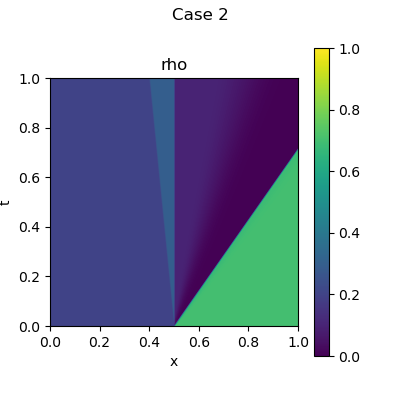
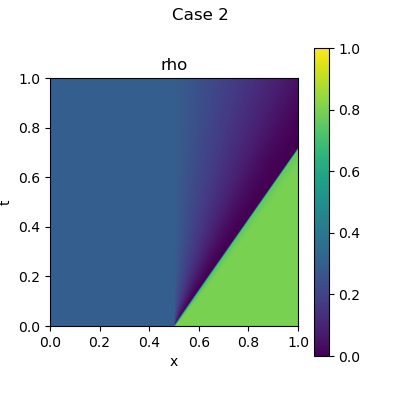
-

diff --git a/GodunovForArz.py b/GodunovForArz.py
@@ -215,7 +215,7 @@ def testRiemannCases():
     _ = main(startwerte = createRiemannProblem(rho_links = 0.6, v_links   = 0.6, rho_rechts =  0.8, v_rechts   = 0.7), title = "Case 1.1")
     _ = main(startwerte = createRiemannProblem(rho_links = 0.8, v_links   = 0.7, rho_rechts =  0.6, v_rechts   = 0.6), title = "Case 1.2")
     _ = main(startwerte = createRiemannProblem(rho_links = 0.7, v_links   = 0.7, rho_rechts =  0.2, v_rechts   = 0.2), title = "Case 3")
-    _ = main(startwerte = createRiemannProblem(rho_links = 0.2, v_links   = 0.2, rho_rechts =  0.7, v_rechts   = 0.7), title = "Case 2")
+    _ = main(startwerte = createRiemannProblem(rho_links = 0.3, v_links   = 0.3, rho_rechts =  0.8, v_rechts   = 0.7), title = "Case 2")
 
 if __name__ == '__main__':
     testRiemannCases()
